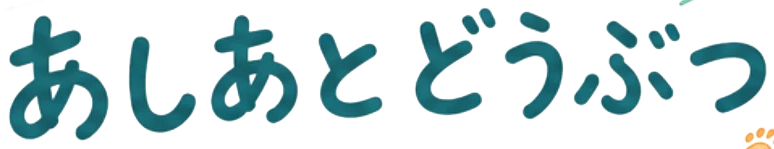
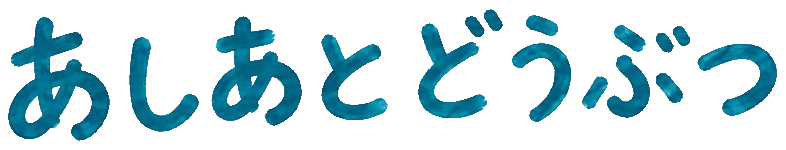
オープニングの 絵を 新しいものに（黒い よごれも 消した）

diff --git a/index.html b/index.html
@@ -164,18 +164,18 @@ h1{margin:0;font-family:"Zen Maru Gothic",sans-serif;font-weight:700;font-size:c
 }
 /* ── オープニング（あしあとどうぶつ が 一文字ずつ でてくる） ── */
 body.op-lock{overflow:hidden}
-#opening{position:fixed;inset:0;z-index:120;background:linear-gradient(#F2F9FC 0%,#F5FAFA 45%,#F4FAF5 100%);display:flex;align-items:center;justify-content:center;transition:opacity .6s ease}
+#opening{position:fixed;inset:0;z-index:120;overflow:hidden;background:linear-gradient(#D6F3FC 0%,#EAF7F3 52%,#F0F8DF 100%);display:flex;align-items:center;justify-content:center;transition:opacity .6s ease}
 #opening.op-out{opacity:0;pointer-events:none}
-#opening{overflow:hidden}
 #opening .op-art{position:relative;flex:0 0 auto;width:max(100vw,min(227vh,128vw))}
 @media(max-width:760px){#opening .op-art{width:max(136vw,min(227vh,100vw))}#opening .op-skip{bottom:-11%;font-size:12px}}
 #opening .op-bg{display:block;width:100%;height:auto}
-#opening .op-ttl{position:absolute;left:19.70%;top:24.06%;width:64.07%;aspect-ratio:774/149}
+/* タイトルの 絵（966x258）を 草原の 上に おく */
+#opening .op-cap{position:absolute;left:10.70%;top:15.02%;width:78.60%;aspect-ratio:966/258}
+#opening .op-rest{position:absolute;inset:0;width:100%;height:auto;opacity:0;transition:opacity .8s ease}
+#opening .op-rest.on{opacity:1}
+#opening .op-ttl{position:absolute;left:9.94%;top:19.38%;width:81.37%;aspect-ratio:786/150}
 #opening .op-ttl i{position:absolute;inset:0;background:url(img/opening-title.png) no-repeat 0 0/100% 100%;clip-path:inset(0 var(--r) 0 var(--l));transform-origin:var(--c) 66%;opacity:0;transform:translateY(12%) scale(.8) rotate(-5deg)}
 #opening .op-ttl i.on{opacity:1;transform:none;transition:opacity .2s ease,transform .44s cubic-bezier(.22,1.42,.4,1)}
-#opening .op-sub{position:absolute;left:22.85%;top:51.50%;width:58.61%;opacity:0;transition:opacity .8s ease}
-#opening .op-sub img{display:block;width:100%;height:auto}
-#opening .op-sub.on{opacity:1}
 #opening .op-skip{position:absolute;left:0;right:0;bottom:-8%;margin:0;text-align:center;font-size:13px;letter-spacing:.08em;color:var(--ink-soft);opacity:0;transition:opacity .7s ease}
 #opening .op-skip.on{opacity:.8}
 @media(prefers-reduced-motion:reduce){#opening .op-ttl i{transition:none}}
@@ -186,25 +186,27 @@ body.op-lock{overflow:hidden}
 <body>
 <div id="opening" aria-hidden="true">
   <div class="op-art">
-    <img class="op-bg" src="img/opening-bg.webp" alt="" width="1208" height="532">
-    <div class="op-ttl" id="opTtl">
-      <i style="--l:0.00%;--r:84.75%;--c:7.6%"></i>
-      <i style="--l:15.25%;--r:73.77%;--c:21.0%"></i>
-      <i style="--l:26.23%;--r:60.21%;--c:32.9%"></i>
-      <i style="--l:39.79%;--r:48.45%;--c:45.3%"></i>
-      <i style="--l:51.55%;--r:35.40%;--c:58.9%"></i>
-      <i style="--l:64.60%;--r:26.61%;--c:69.0%"></i>
-      <i style="--l:73.39%;--r:16.80%;--c:78.5%"></i>
-      <i style="--l:83.20%;--r:0.00%;--c:91.3%"></i>
+    <img class="op-bg" src="img/opening-bg.webp" alt="" width="1890" height="832">
+    <div class="op-cap">
+      <img class="op-rest" id="opRest" src="img/opening-rest.png" alt="" width="966" height="258">
+      <div class="op-ttl" id="opTtl">
+      <i style="--l:0.00%;--r:84.80%;--c:7.5%"></i>
+      <i style="--l:15.20%;--r:73.92%;--c:20.9%"></i>
+      <i style="--l:26.08%;--r:60.37%;--c:32.6%"></i>
+      <i style="--l:39.63%;--r:48.73%;--c:45.1%"></i>
+      <i style="--l:51.27%;--r:35.43%;--c:58.6%"></i>
+      <i style="--l:64.57%;--r:26.59%;--c:69.0%"></i>
+      <i style="--l:73.41%;--r:11.70%;--c:81.0%"></i>
+      <i style="--l:88.30%;--r:0.00%;--c:93.8%"></i>
+      </div>
     </div>
-    <div class="op-sub" id="opSub"><img src="img/opening-sub.png" alt="" width="708" height="72"></div>
     <p class="op-skip" id="opSkip">タップで はじめる</p>
   </div>
 </div>
 <script>
 (function(){
   var ov=document.getElementById("opening");if(!ov)return;
-  var ch=[].slice.call(ov.querySelectorAll(".op-ttl i")),sub=document.getElementById("opSub"),skip=document.getElementById("opSkip");
+  var ch=[].slice.call(ov.querySelectorAll(".op-ttl i")),rest=document.getElementById("opRest"),skip=document.getElementById("opSkip");
   window.__opening=true;document.body.classList.add("op-lock");
   var tm=[],ended=false;
   function at(ms,fn){tm.push(setTimeout(fn,ms));}
@@ -217,13 +219,13 @@ body.op-lock{overflow:hidden}
   var slow=window.matchMedia&&matchMedia("(prefers-reduced-motion:reduce)").matches;
   if(slow){
     for(var i=0;i<ch.length;i++)ch[i].classList.add("on");
-    sub.classList.add("on");at(1800,end);
+    rest.classList.add("on");at(1800,end);
   }else{
     ch.forEach(function(c,i){at(320+i*200,function(){c.classList.add("on");});});
-    var tSub=320+ch.length*200+240;
-    at(tSub,function(){sub.classList.add("on");});
+    var tRest=320+ch.length*200+240;
+    at(tRest,function(){rest.classList.add("on");});
     at(1300,function(){skip.classList.add("on");});
-    at(tSub+1750,end);
+    at(tRest+1750,end);
   }
   ["pointerdown","keydown","wheel","touchstart"].forEach(function(e){window.addEventListener(e,end,{once:true,passive:true});});
 })();
